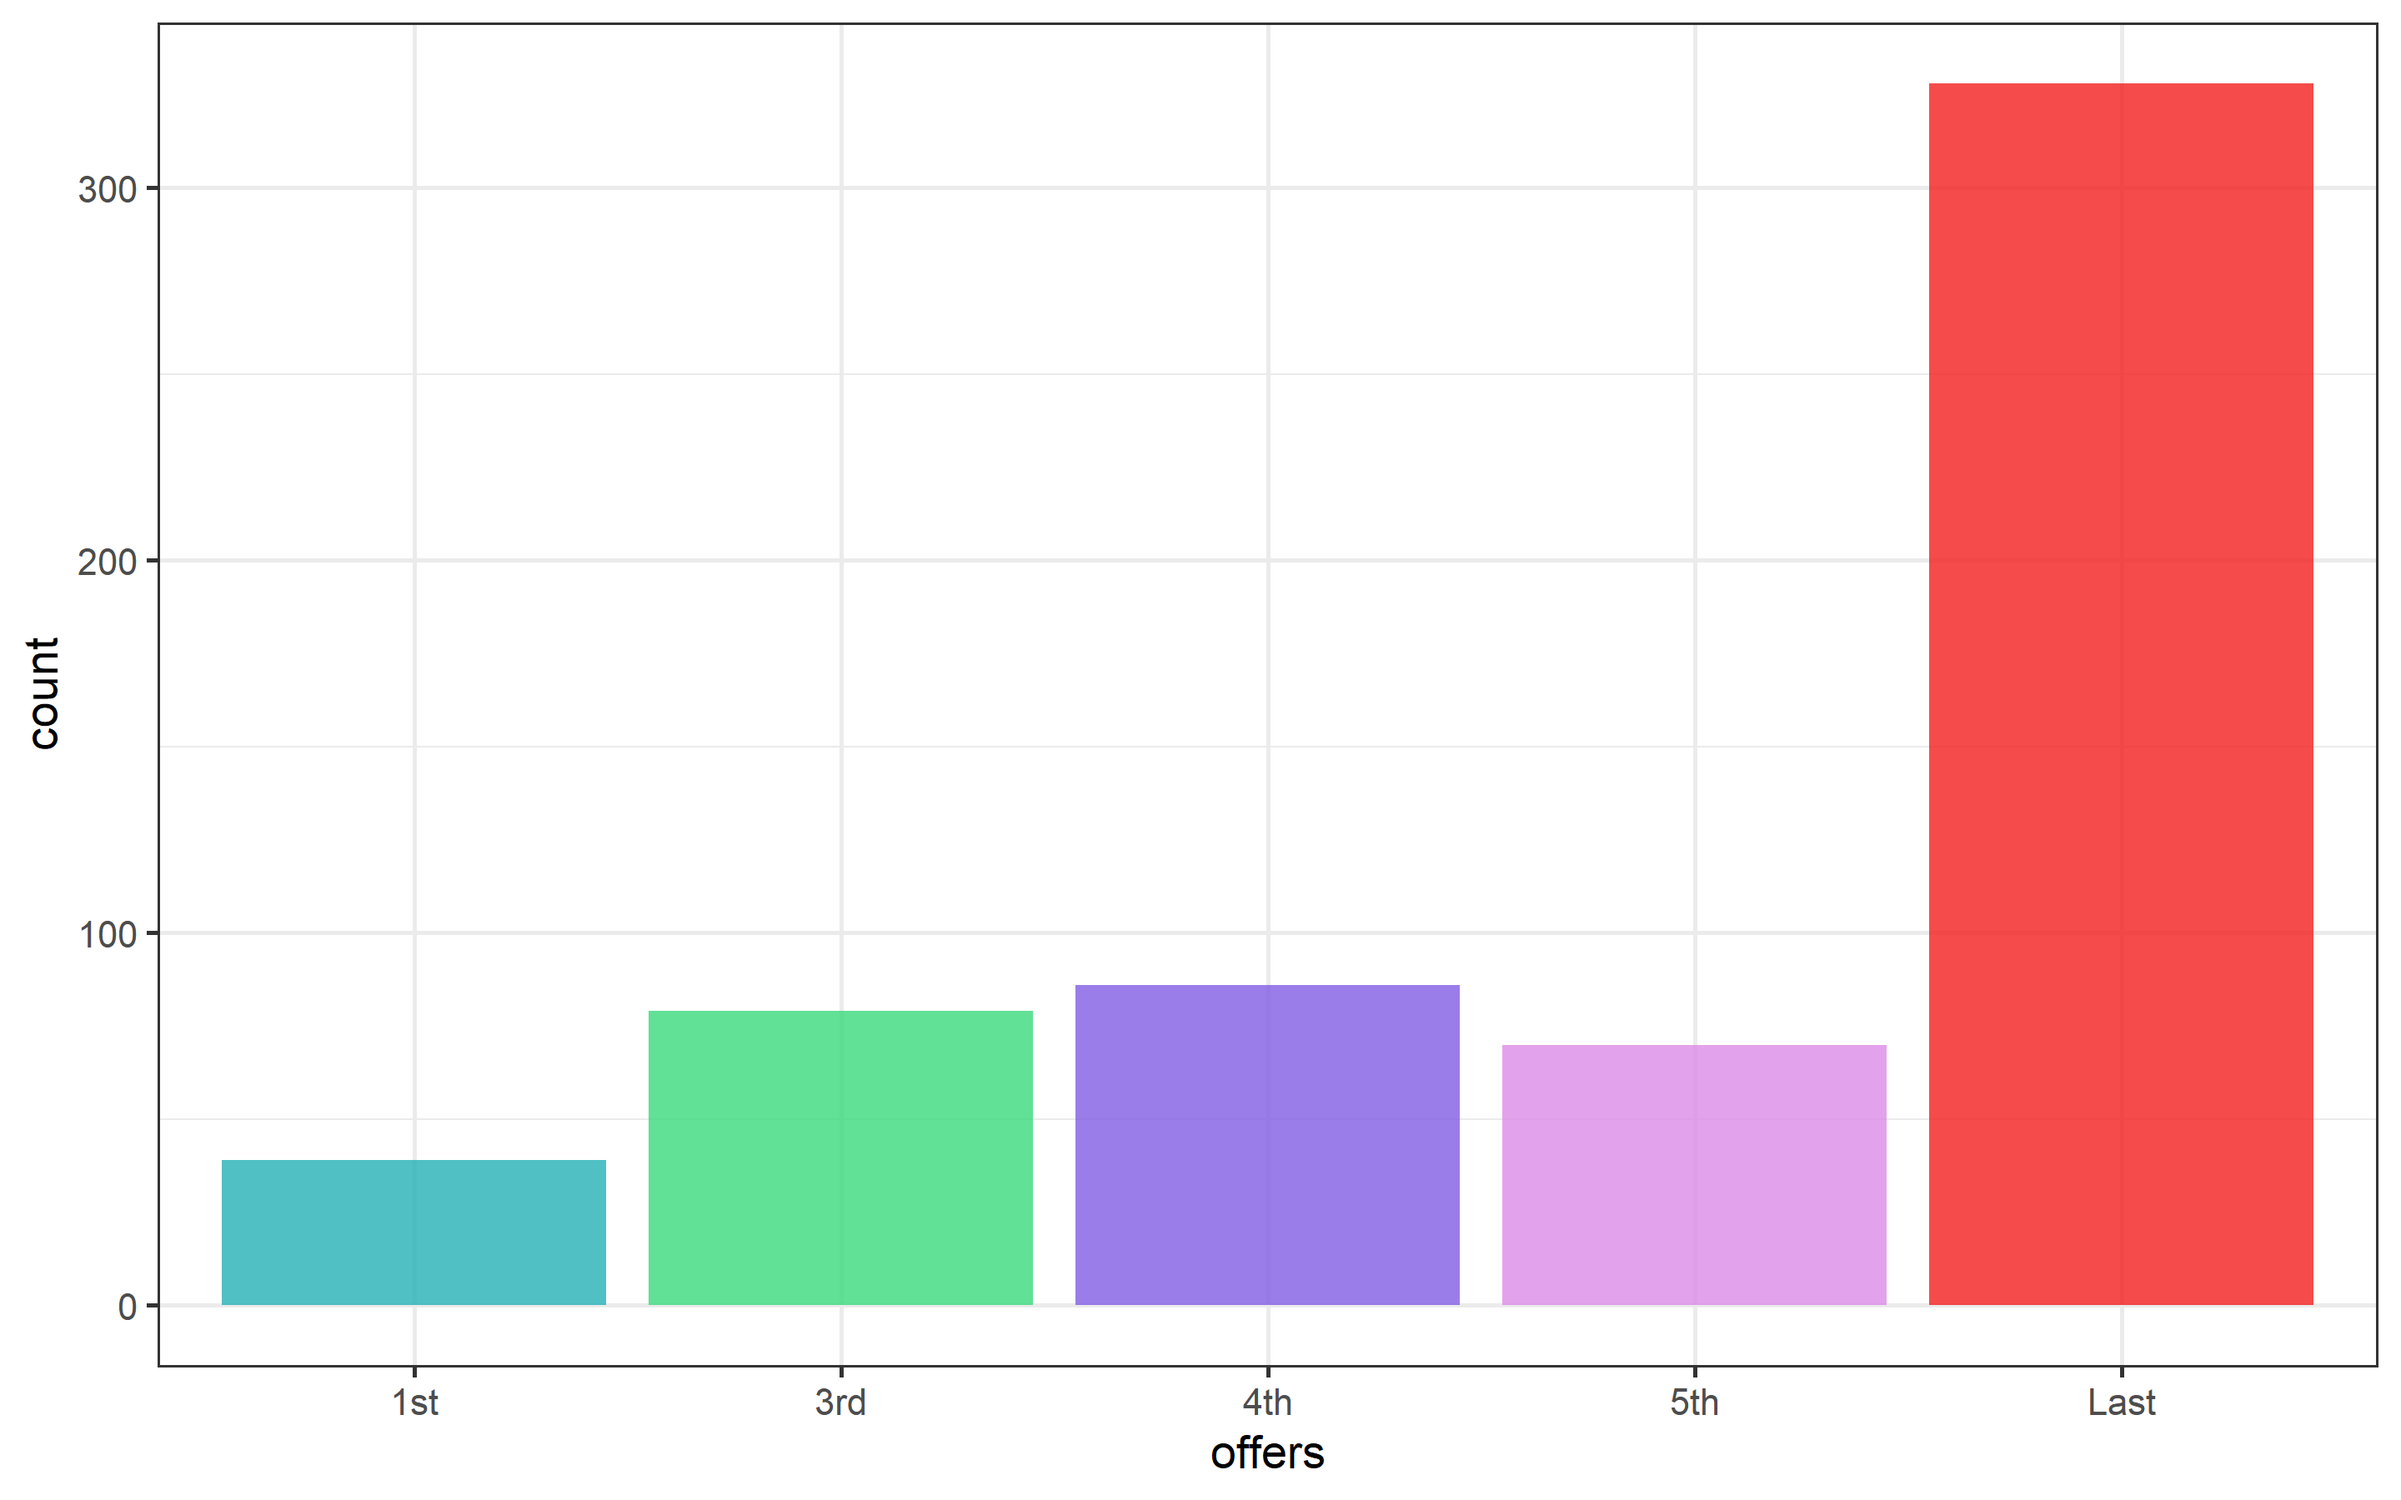
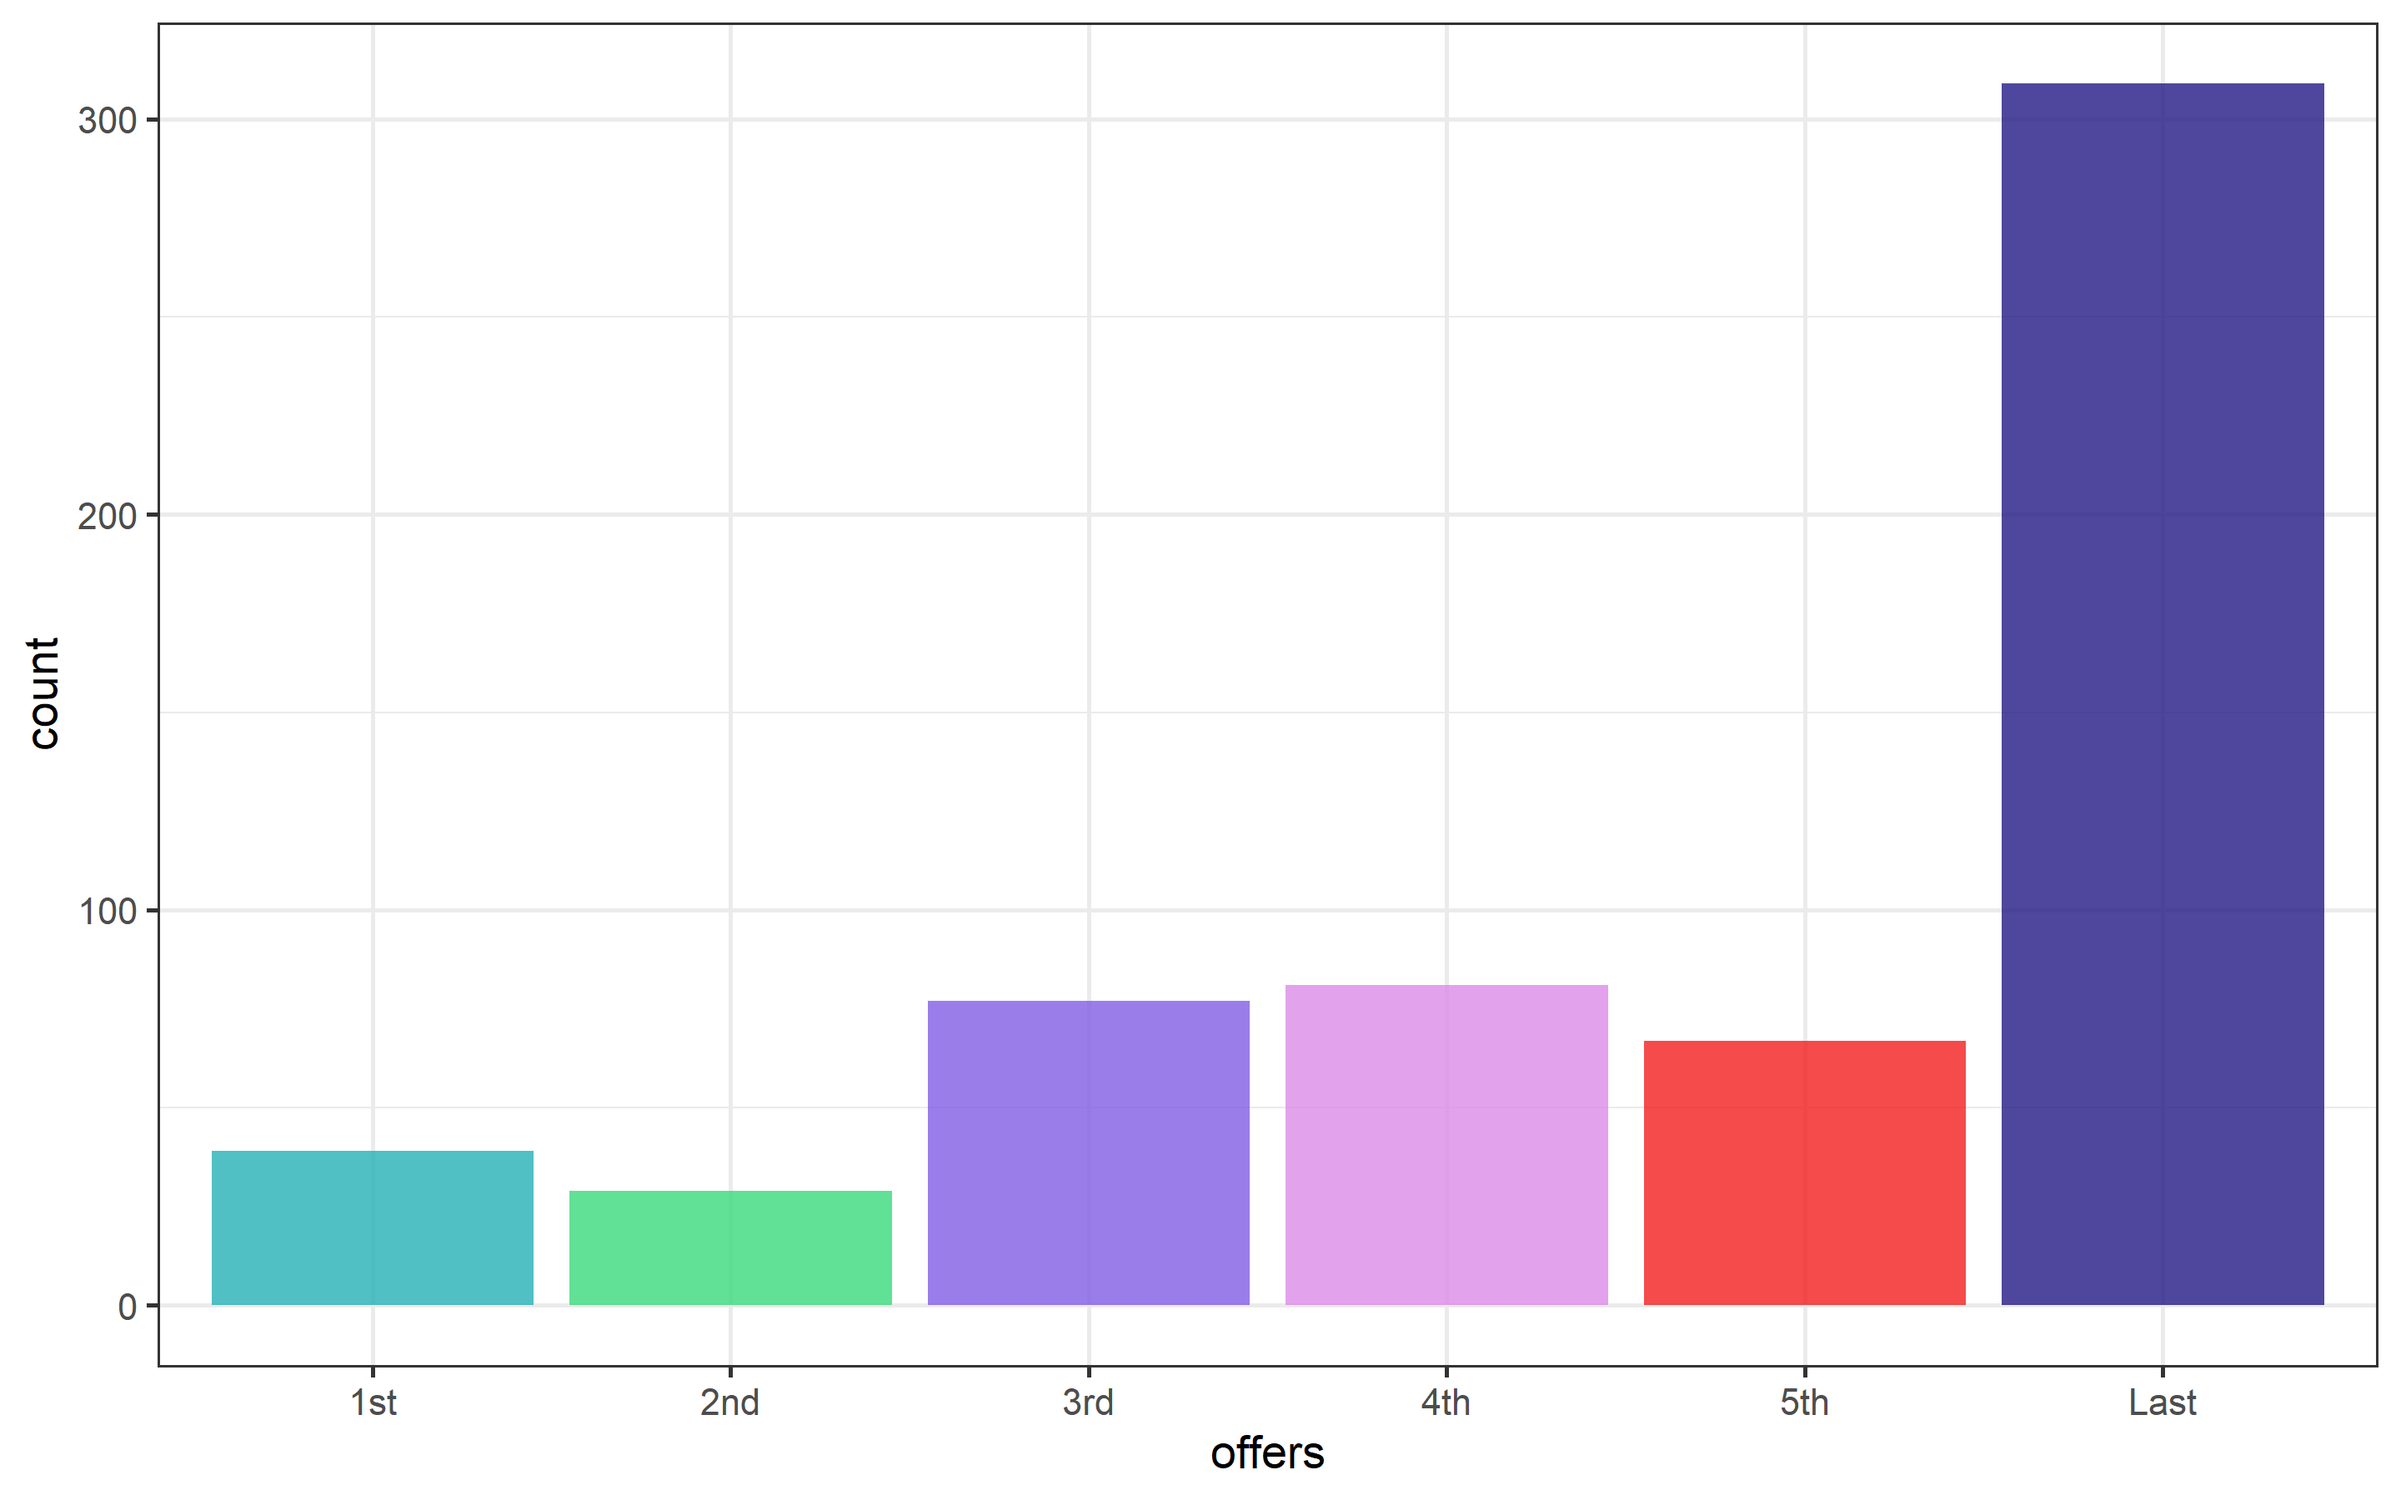
update 09/17/21

diff --git a/marketing_data.html b/marketing_data.html
@@ -1245,15 +1245,23 @@ plot(marketing_ready$AcceptedCmp5 ~ marketing_ready$Country, main = &quot;Campai
 plot(marketing_ready$Response ~ marketing_ready$Country, main = &quot;Last Campaign&quot;, ylab = NULL, xlab = &quot;Country&quot;)</code></pre>
 <p><img src="marketing_data_files/figure-html/unnamed-chunk-31-1.png" width="1440" /></p>
 <pre class="r"><code>marketing_ready$offers &lt;- ifelse(marketing_ready$AcceptedCmp1 == 1, &quot;1st&quot;, 0)
+
 marketing_ready$offers &lt;- ifelse(marketing_ready$AcceptedCmp2 == 1, &quot;2nd&quot;, marketing_ready$offers)
+
 marketing_ready$offers &lt;- ifelse(marketing_ready$AcceptedCmp3 == 1, &quot;3rd&quot;, marketing_ready$offers)
+
 marketing_ready$offers &lt;- ifelse(marketing_ready$AcceptedCmp4 == 1, &quot;4th&quot;, marketing_ready$offers)
+
 marketing_ready$offers &lt;- ifelse(marketing_ready$AcceptedCmp5 == 1, &quot;5th&quot;, marketing_ready$offers)
+
 marketing_ready$offers &lt;- ifelse(marketing_ready$Response == 1, &quot;Last&quot;, marketing_ready$offers)
+
+marketing_ready$offers &lt;- ifelse(marketing_ready$AcceptedCmp2 == 1, &quot;2nd&quot;, marketing_ready$offers)
+
 marketing_ready %&gt;% 
   filter(offers != 0) %&gt;% 
   ggplot(aes(offers)) +
-  geom_bar(fill = c(&quot;#24B0B7&quot;, &quot;#39D97B&quot;, &quot;#825DE3&quot;, &quot;#DC8BE7&quot;, &quot;#F31E1E&quot;), alpha = 0.8) </code></pre>
+  geom_bar(fill = c(&quot;#24B0B7&quot;, &quot;#39D97B&quot;, &quot;#825DE3&quot;, &quot;#DC8BE7&quot;, &quot;#F31E1E&quot;, &quot;#231985&quot;), alpha = 0.8) </code></pre>
 <p><img src="marketing_data_files/figure-html/unnamed-chunk-32-1.png" width="1440" /> From the campaigns, the last one is the most successful one. Almost three times what others campaigns did. The company could apply another similar campaign to even increase the acceptance rate.</p>
 <pre class="r"><code>amountspent &lt;- marketing %&gt;% 
     dplyr::select(MntWines, MntFruits, MntMeatProducts, MntFishProducts, MntSweetProducts, MntGoldProds) %&gt;%
@@ -1265,7 +1273,17 @@ marketing_ready %&gt;%
          Gold = sum(MntGoldProds)) %&gt;% 
   dplyr::select(Wines, Fruits, Meat, Fish, Sweet, Gold) 
 
-  amountspent &lt;- unique(amountspent)</code></pre>
+  amountspent &lt;- unique(amountspent)
+amountspent</code></pre>
+<pre><code>## # A tibble: 1 x 6
+##    Wines Fruits   Meat  Fish Sweet  Gold
+##    &lt;dbl&gt;  &lt;dbl&gt;  &lt;dbl&gt; &lt;dbl&gt; &lt;dbl&gt; &lt;dbl&gt;
+## 1 680816  58917 373968 84057 60621 98609</code></pre>
+<pre class="r"><code>amount &lt;- data.frame(product = c(&quot;Wines&quot;, &quot;Fruits&quot;, &quot;Meat&quot;, &quot;Fish&quot;, &quot;Sweet&quot;, &quot;Gold&quot;), amount = c(680816, 58917, 373968, 84057, 60621, 98609))
+amount %&gt;% 
+  ggplot(aes(amount, product)) +
+  geom_col(fill = c(&quot;#24B0B7&quot;, &quot;#39D97B&quot;, &quot;#825DE3&quot;, &quot;#DC8BE7&quot;, &quot;#F31E1E&quot;, &quot;#231985&quot;), alpha = 0.8) </code></pre>
+<p><img src="marketing_data_files/figure-html/unnamed-chunk-33-1.png" width="1440" /> Wines and meat are the channels that are sold the most.</p>
 </div>
 </div>
 </div>
